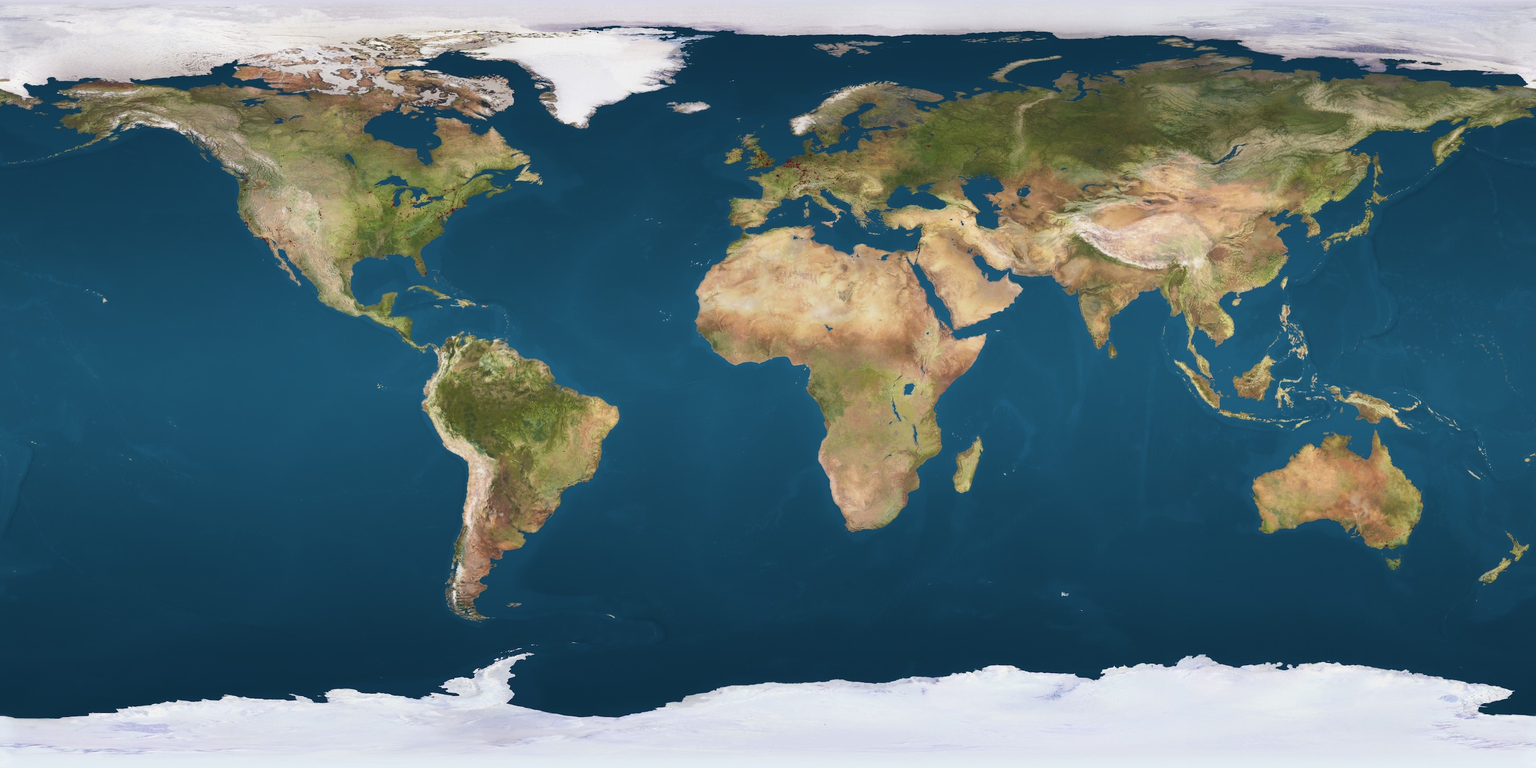
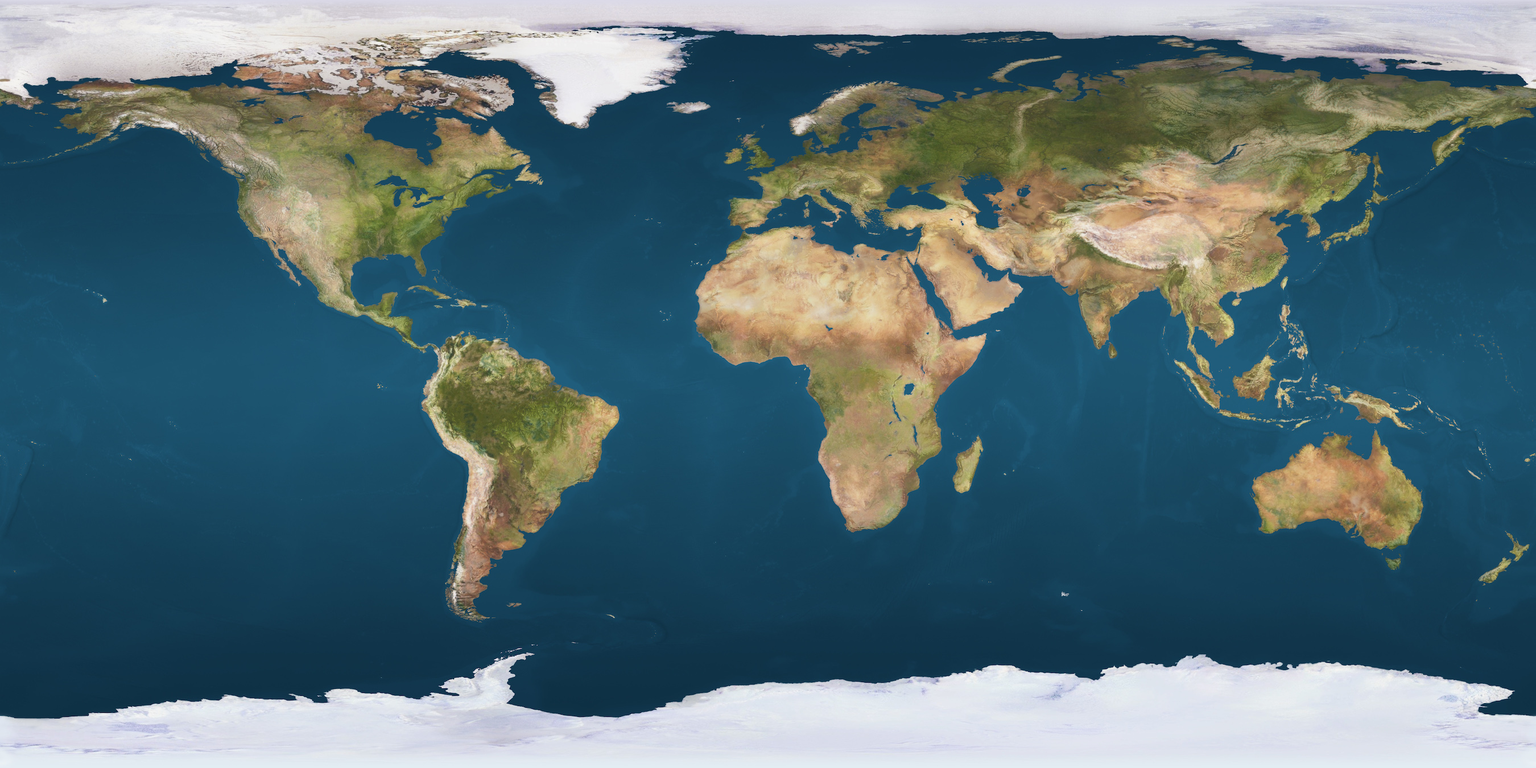
replaced high-res earth textures with better quality versions (from the source of the originals)

Changed region(s): [[0.2489, 0.2489, 0.3111, 0.28]]

diff --git a/readme.md b/readme.md
@@ -49,3 +49,7 @@ This project is licensed under the MIT License - see the [LICENSE.md](LICENSE.md
 * Milkyway Skymap
     * source image from European Southern Observatory (https://www.eso.org/public/usa/images/eso0932a/)
     * converted to cubemap (from equirectangular panorama) with a python script provided by Benjamin Dobell (http://stackoverflow.com/a/36976448/235229)
+* Earth texture by Jim Hastings-Trew at http://planetpixelemporium.com/earth.html
+
+
+
